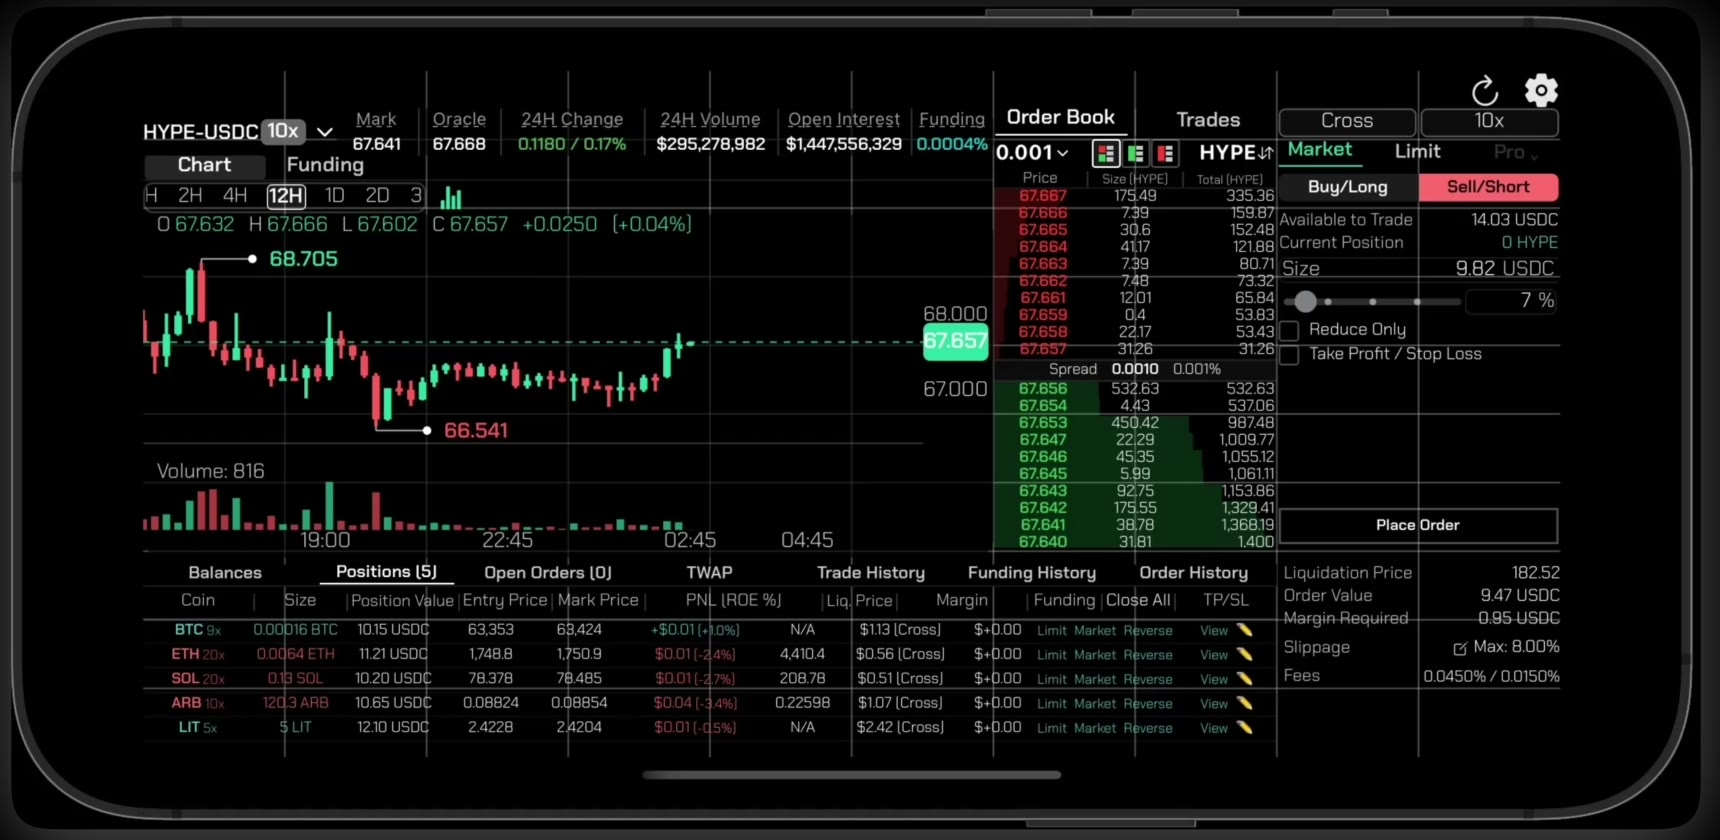
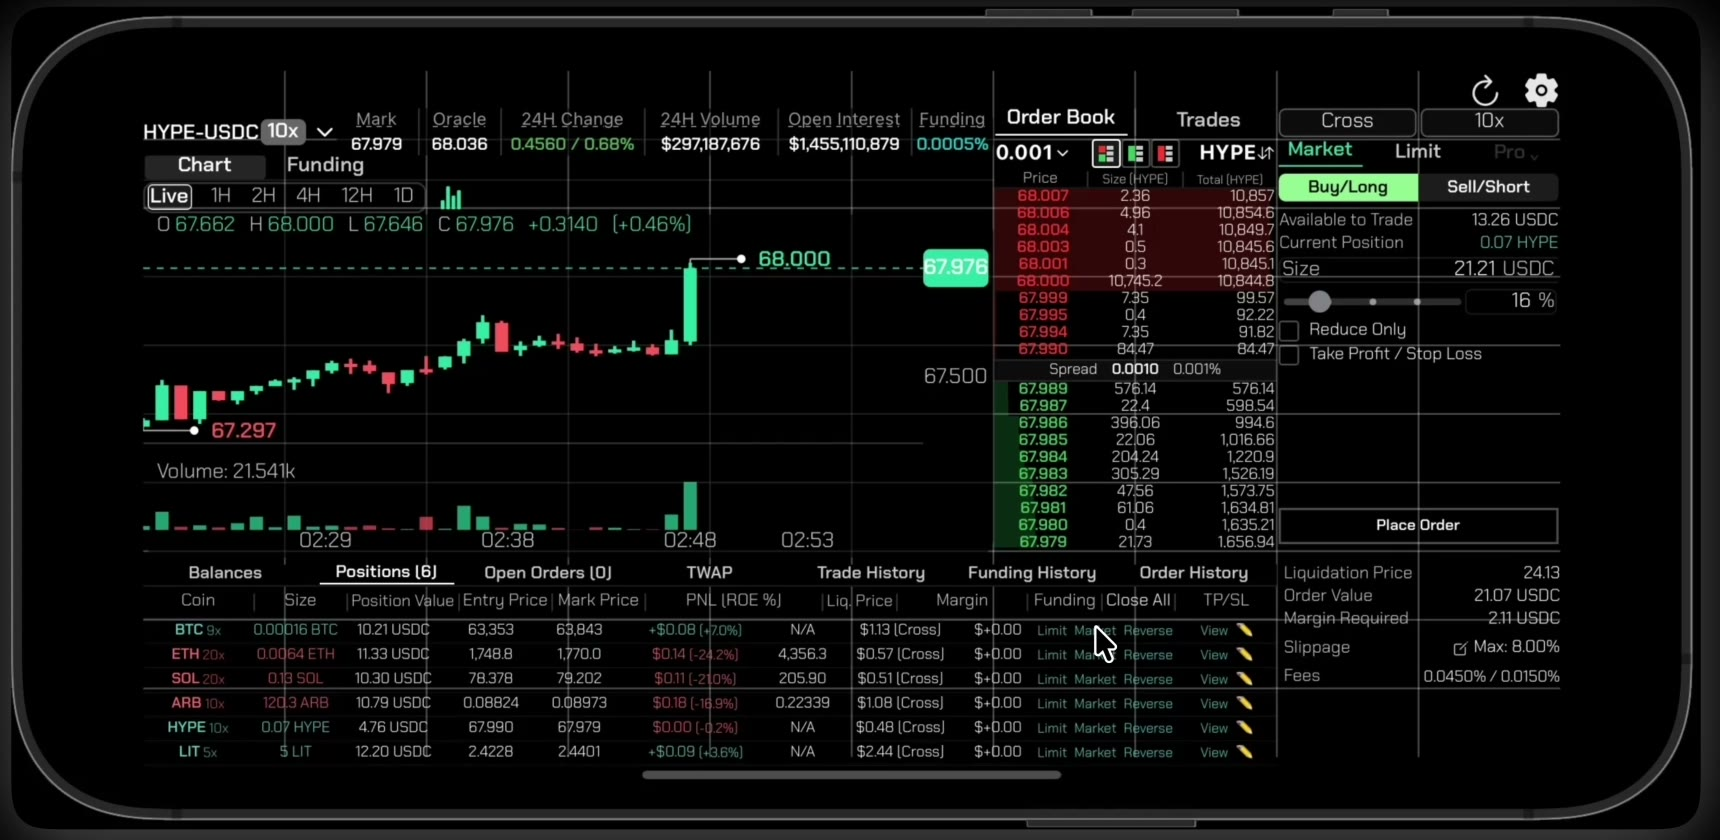
Better moving screen at the top

diff --git a/src/data/portfolio.js b/src/data/portfolio.js
@@ -71,8 +71,8 @@ export const ritenParts = [
     n: '04',
     title: 'the positions',
     lede: 'and what you can do to them',
-    copy: 'five open, with pnl, roe, liquidation price and margin on each. reverse one and the trade is restated before you commit. close them all and the fills stack up as they land.',
-    box: { x: 137, y: 558, w: 1138, h: 188 },
+    copy: 'six open, with pnl, roe, liquidation price and margin on each. reverse one and the trade is restated before you commit. close them all and the fills stack up as they land.',
+    box: { x: 137, y: 562, w: 1138, h: 216 },
     label: { x: 706, y: 1022 },
     below: true,
     loops: [

diff --git a/src/pages/Portfolio.jsx b/src/pages/Portfolio.jsx
@@ -569,7 +569,7 @@ const RITEN_COUNTS = [
   ['1', 'live chart'],
   ['2', 'sides of the book'],
   ['1', 'full order ticket'],
-  ['5', 'open positions'],
+  ['6', 'open positions'],
   ['0', 'screens to swipe between'],
 ]
 